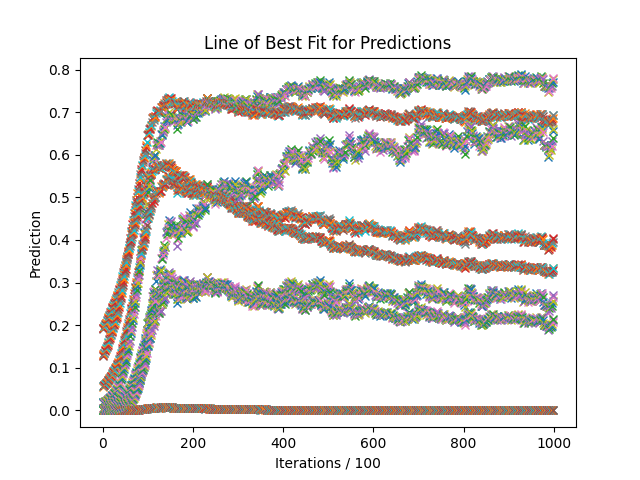
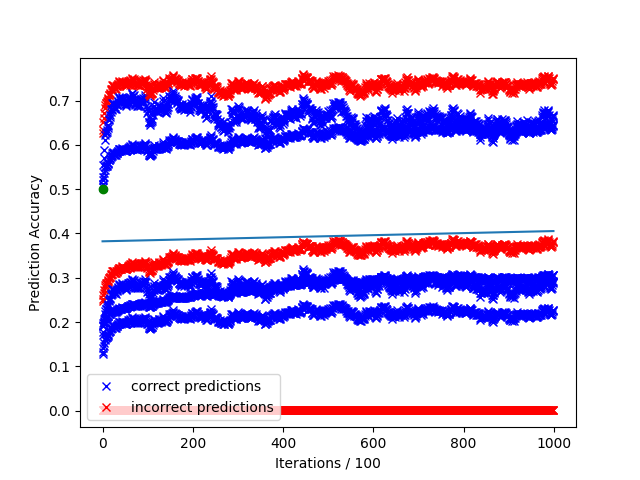
Rebuilt model so its much more accurate and gives more feedback :)

diff --git a/index.html b/index.html
@@ -17,7 +17,8 @@
         </script>
         <div class="image-container">
             <img src="Network/cumulative_error.png" alt="Network Visualization">
-            <img src="Network/prediction_best_fit.png" alt="Prediction Visualization">
+            <img src="Network/predicted.png" alt="Prediction Visualization">
+            <img src="Network/prediction_best_fit.png" alt="Accuracy Visualization">
         </div>
     </body>
 </html>

diff --git a/Network/Network.py b/Network/Network.py
@@ -75,7 +75,7 @@ class NeuralNetwork:
                     x = current_iteration / 100
                     fit_x.append(x)
                     fit_y.append(prediction)
-                    plt.plot(x, prediction, 'x')
+                    plt.plot(x, prediction, 'x', color='blue' if (target == 1 and prediction >= 0.5) or (target == 0 and prediction < 0.5) else 'red')
 
                 cumulative_predictions.append(cumulative_prediction)
                 cumulative_errors.append(cumulative_error)
@@ -87,12 +87,19 @@ class NeuralNetwork:
         m, b = np.polyfit(fit_x, fit_y, 1)
         best_fit_y = m * fit_x + b
 
-        #plt.plot(fit_x, best_fit_y)
-        #plt.plot(cumulative_predictions)
+        plt.plot(fit_x, best_fit_y)
+        plt.xlabel("Iterations / 100")
+        plt.ylabel("Prediction Accuracy")
+        plt.legend(["correct predictions (blue)", "incorrect predictions (red)"])
+        plt.plot(0, 0.5, "o", color='green', label='Decision Boundary')
+        plt.savefig("Network/prediction_best_fit.png")
+        plt.clf()
+
+        plt.plot(cumulative_predictions)
         plt.xlabel("Iterations / 100")
         plt.ylabel("Prediction")
-        plt.title("Line of Best Fit for Predictions")
-        plt.savefig("Network/prediction_best_fit.png")
+        plt.title("Value predicited by the model")
+        plt.savefig("Network/predicted.png")
         plt.clf()
 
         return cumulative_errors
